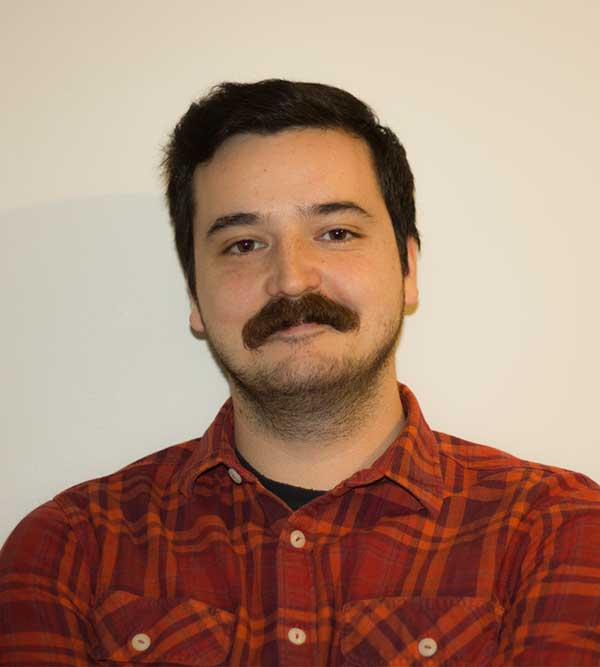
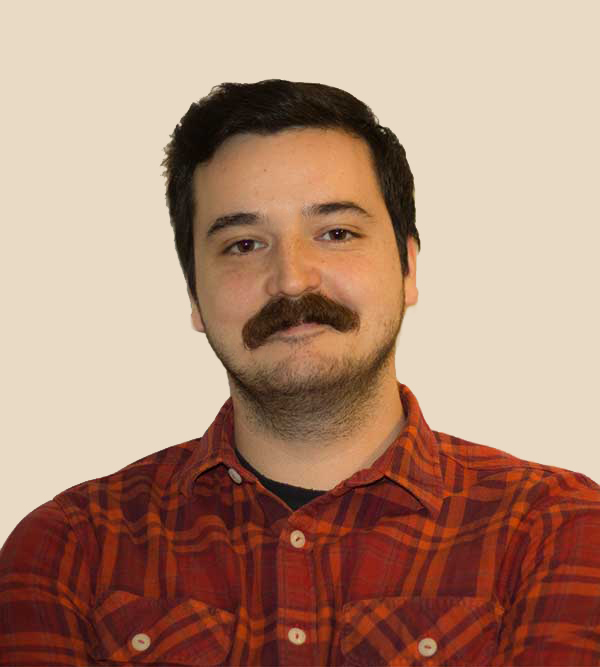
Foto yenilendi, içerik güncellendi

diff --git a/index.html b/index.html
@@ -81,16 +81,17 @@
 				<div class="col-md-4">
 					<ul class="info">
 						<li><span class="first-block">İsim:</span><span class="second-block">Efe Can Uyar</span></li>
-						<li><span class="first-block">Telefon:</span><span class="second-block">xxx</span></li>
+						<li><span class="first-block">Telefon:</span><span class="second-block">+90 506 390 31 85</span></li>
 						<li><span class="first-block">Email:</span><span class="second-block">efecanuyar@gmail.com</span></li>
 						<li><span class="first-block">Website:</span><span class="second-block">www.efecanuyar.com</span></li>
-						<li><span class="first-block">Addres:</span><span class="second-block">xxx</span></li>
+						<li><span class="first-block">Addres:</span><span class="second-block">Karşıyaka/İZMİR</span></li>
 					</ul>
 				</div>
 				<div class="col-md-8">
 					<h2>Merhaba!</h2>
-					<p>There live the blind texts far from the countries Vokalia and Consonantia, there live the blind texts. Separated they live in bookmarksgrove there live the blind texts far from the countries.</p>
-					<p>Far far away, behind the word mountains, Quos quia provident consequuntur culpa facere ratione maxime commodi voluptates id repellat velit eaque aspernatur expedita. Possimus itaque adipisci there live the blind texts from the countries Vokalia and Consonantia, there live the blind texts. Quos quia provident consequuntur culpa facere ratione maxime commodi voluptates id repellat velit eaque aspernatur expedita. Possimus itaque adipisci.</p>
+					<p>2013 yılında yetenek sınavı sonucu eğitim görme hakkı kazandığım 9 Eylül Üniversitesi, Güzel Sanatlar Fakültesi, Film Tasarım Bölümü, Yönetmenlik Anasanat Dalı'ndan 2017 yılında mezun oldum. Eğitimim boyunca aralarında animasyon türünde örnekler de bulunan 9 film yazıp, yönettim. Bu filmlerden "Fiş", "13 Saat" ve "4 Duar" çeşitli festival ve yarışmalarda; gösterim ve/veya ödül almıştır.</p>
+					<p>Eğitimim süresince oldukça hakim olduğum Premiere, After Effects, Photoshop ve Illustrator gibi Adobe programlarının yanısıra, NukeX, Blender 3D gibi programlarda da kendimi geliştirdim ve geliştirmeye devam ediyorum. İlki "Yağmurlarda Yıkansam" uzun metraj filminde pre-production boyunca set amirliği, diğeri de Tiramisu Prodüksiyon'da videographer ve video editor görevlerinde olmak üzere iki staj yaptım.</p>
+					<p>Ekim 2017 tarihinden bu yana freelance olarak video prodüksiyonu, fotoğraf, ürün, menü, ambalaj, grafik tasarımı ve sosyal medya yöneticisi ve web designer görevlerini yerine getiriyorum.</p>
 					<p>
 						<ul class="fh5co-social-icons">
 							<li><a href="https://twitter.com/efecanuyar" target="_blank"><i class="icon-twitter2"></i></a></li>
@@ -115,17 +116,17 @@
 				<div class="col-md-12 col-md-offset-0">
 					<ul class="timeline">
 						<li class="timeline-heading text-center animate-box">
-							<div><h3>experience, projects & awards</h3></div>
+							<div><h3>deneyim, proje ve ödüller</h3></div>
 						</li>
 						<li class="animate-box timeline-unverted">
 							<div class="timeline-badge"><i class="icon-suitcase"></i></div>
 							<div class="timeline-panel">
 								<div class="timeline-heading">
 									<h3 class="timeline-title">The Ball</h3>
-									<span class="company">Claymotion Animation - 2013 - Writer and Director</span>
+									<span class="company">Claymotion Animasyon - 2013 - Yazan ve Yöneten</span>
 								</div>
 								<div class="timeline-body">
-									<p>Far far away, behind the word mountains, far from the countries Vokalia and Consonantia, there live the blind texts.</p>
+									<p>Dokuz Eylül Üniversitesi için, oyun hamurundan hazırlanan karakterlerle ve 12 FPS hazırlanmış, stop motion kısa film.</p>
 								</div>
 							</div>
 						</li>
@@ -134,10 +135,10 @@
 							<div class="timeline-panel">
 								<div class="timeline-heading">
 									<h3 class="timeline-title">LifeScreen</h3>
-									<span class="company">ClayMotion Animation - 2013 - Writer and Director</span>
+									<span class="company">ClayMotion Animasyon - 2013 - Yazan ve Yöneten</span>
 								</div>
 								<div class="timeline-body">
-									<p>Far far away, behind the word mountains, they live in Bookmarksgrove right at the coast of the Semantics, a large language ocean.</p>
+									<p>Dokuz Eylül Üniversitesi için, oyun hamurundan hazırlanan karakterlerle ve fon kartonundan setlerle, 15 FPS hazırlanmış, stop motion kısa film. Film, isimsiz bir karakterin izlediği televizyonun, karakter üzerindeki etkilerini TV'nin açısından incelemektedir.</p>
 								</div>
 							</div>
 						</li>
@@ -146,10 +147,12 @@
 							<div class="timeline-panel">
 								<div class="timeline-heading">
 									<h3 class="timeline-title">Kuşku - Doubt</h3>
-									<span class="company">Short Film - 2014 - Writer and Director</span>
+									<span class="company">Kısa Film - 2014 - Yazan ve Yöneten</span>
 								</div>
 								<div class="timeline-body">
-									<p>Far far away, behind the word mountains, far from the countries Vokalia and Consonantia, there live the blind texts.</p>
+									<p>Kurmaca - Gizem</p>
+									<br></br>
+									<p>"Arcan, Yasemin’in kendisini aldattığına inandığı için ilişkilerini bitirir. Zaman içinde bu bilinmezlik Arcan’ı yener ve son bir yüzleşme için çat kapı Yasemin’in evine gider. Arcan’ın bekleyişi sırasında Yasemin’in evindeki her obje Arcan’ın şüphelerini körükleyen imgeler yaratmaktadır. Yasemin’in söyledikleri Arcan’ın aklına nüfuz ettikçe, Arcan’ın gördüğü imgeler normalleşmeye ve masumlaşmaya başlar. Ancak gerçek ne Arcan'ın düşlediği ne de Yasemin'in anlattığı gibidir."</p>
 								</div>
 							</div>
 						</li>
@@ -157,7 +160,7 @@
 							<div class="timeline-badge"><i class="icon-suitcase"></i></div>
 							<div class="timeline-panel">
 								<div class="timeline-heading">
-									<h3 class="timeline-title">Işık - Light</h3>
+									<h3 class="timeline-title">Dördüncü - The Fourth</h3>
 									<span class="company">Short Film - 2014 - Writer and Director</span>
 								</div>
 								<div class="timeline-body">
@@ -169,7 +172,7 @@
 							<div class="timeline-badge"><i class="icon-suitcase"></i></div>
 							<div class="timeline-panel">
 								<div class="timeline-heading">
-									<h3 class="timeline-title">Dördüncü - The Fourth</h3>
+									<h3 class="timeline-title">Işık - Light</h3>
 									<span class="company">Short Film - 2015 - Writer and Director</span>
 								</div>
 								<div class="timeline-body">
@@ -300,17 +303,17 @@
 						</li>
 						<br>
 						<li class="timeline-heading text-center animate-box">
-							<div><h3>EDUCATION</h3></div>
+							<div><h3>EĞİTİM</h3></div>
 						</li>
 						<li class="timeline-inverted animate-box">
 							<div class="timeline-badge"><i class="icon-graduation-cap"></i></div>
 							<div class="timeline-panel">
 								<div class="timeline-heading">
-									<h3 class="timeline-title">Elementary School</h3>
-									<span class="company">Karşıyaka İlköğretim Okulu - 1998-2006</span>
+									<h3 class="timeline-title">İlkokul</h3>
+									<span class="company">Karşıyaka İlköğretim Okulu</span>
 								</div>
 								<div class="timeline-body">
-									<p>Far far away, behind the word mountains, they live in Bookmarksgrove right at the coast of the Semantics, a large language ocean.</p>
+									<p>1998-2006</p>
 								</div>
 							</div>
 						</li>
@@ -318,11 +321,11 @@
 							<div class="timeline-badge"><i class="icon-graduation-cap"></i></div>
 							<div class="timeline-panel">
 								<div class="timeline-heading">
-									<h3 class="timeline-title">High School</h3>
-									<span class="company">Cihat Kora Anadolu Lisesi - 2006-2010</span>
+									<h3 class="timeline-title">Lise</h3>
+									<span class="company">Cihat Kora Anadolu Lisesi</span>
 								</div>
 								<div class="timeline-body">
-									<p>Far far away, behind the word mountains, far from the countries Vokalia and Consonantia, there live the blind texts.</p>
+									<p>2006-2010</p>
 								</div>
 							</div>
 						</li>
@@ -330,8 +333,8 @@
 							<div class="timeline-badge"><i class="icon-graduation-cap"></i></div>
 							<div class="timeline-panel">
 								<div class="timeline-heading">
-									<h3 class="timeline-title">University</h3>
-									<span class="company">Dokuz Eylül Üniversity - Faculty of Engineering - Geophysical Engineering</span>
+									<h3 class="timeline-title">Üniversite</h3>
+									<span class="company">Dokuz Eylül Üniversitesi - Mühendislik Fakültesi - Jeofizik Mühendisliği</span>
 								</div>
 								<div class="timeline-body">
 									<p>2010-2013</p>
@@ -342,8 +345,8 @@
 							<div class="timeline-badge"><i class="icon-graduation-cap"></i></div>
 							<div class="timeline-panel">
 								<div class="timeline-heading">
-									<h3 class="timeline-title">Bachelor's Degree</h3>
-									<span class="company">Dokuz Eylul University - Faculty of Fine Arts - Film Design and Directing</span>
+									<h3 class="timeline-title">Üniversite</h3>
+									<span class="company">Dokuz Eylul Üniversitesi - Güzel Sanatlar Fakültesi - Film Tasarım Bölümü - Yönetmenlik Anasanat Dalı</span>
 								</div>
 								<div class="timeline-body">
 									<p>2013-2017</p>
@@ -357,7 +360,7 @@
 	</div>
 
 
-	<div id="fh5co-features" class="animate-box">
+	<!-- <div id="fh5co-features" class="animate-box">
 		<div class="container">
 			<div class="services-padding">
 				<div class="row">
@@ -445,18 +448,18 @@
 				</div>
 			</div>
 		</div>
-	</div>
+	</div> -->
 
 	<div id="fh5co-skills" class="animate-box">
 		<div class="container">
 			<div class="row">
 				<div class="col-md-8 col-md-offset-2 text-center fh5co-heading">
-					<h2>Skills</h2>
+					<h2>Yetkinlikler</h2>
 				</div>
 			</div>
 			<div class="row row-pb-md">
 				<div class="col-md-3 col-sm-6 col-xs-12 text-center">
-					<div class="chart" data-percent="50"><span><strong>Adobe Illustrator</strong>70%</span></div>
+					<div class="chart" data-percent="60"><span><strong>Adobe Illustrator</strong>60%</span></div>
 				</div>
 				<div class="col-md-3 col-sm-6 col-xs-12 text-center">
 					<div class="chart" data-percent="85"><span><strong>Adobe Photoshop</strong>85%</span></div>
@@ -485,18 +488,18 @@
 		<div class="container">
 			<div class="row">
 				<div class="col-md-8 col-md-offset-2 text-center fh5co-heading">
-					<h2>Languages</h2>
+					<h2>Diller</h2>
 				</div>
 			</div>
 			<div class="row row-pb-md">
 				<div class="col-md-4 col-sm-4 col-xs-12 text-center">
-					<div class="chart" data-percent="100"><span><strong>Turkish</strong>100%</span></div>
+					<div class="chart" data-percent="100"><span><strong>Türkçe</strong>100%</span></div>
 				</div>
 				<div class="col-md-4 col-sm-4 col-xs-12 text-center">
-					<div class="chart" data-percent="90"><span><strong>English</strong>90%</span></div>
+					<div class="chart" data-percent="90"><span><strong>İngilizce</strong>90%</span></div>
 				</div>
 				<div class="col-md-4 col-sm-4 col-xs-12 text-center">
-					<div class="chart" data-percent="10"><span><strong>German</strong>10%</span></div>
+					<div class="chart" data-percent="10"><span><strong>Almanca</strong>10%</span></div>
 				</div>
 			</div>
 		</div>
@@ -506,7 +509,7 @@
 		<div class="container">
 			<div class="row animate-box">
 				<div class="col-md-8 col-md-offset-2 text-center fh5co-heading">
-					<h2>Work</h2>
+					<h2>Yazıp Yönettiğim Kısa Filmler</h2>
 				</div>
 			</div>
 			<div class="row">
@@ -548,19 +551,19 @@
 				</div>
 				<div class="col-md-4 col-padding">
 					<div class="embed-responsive embed-responsive-16by9">
-						<iframe title="test7" src="https://www.youtube.com/embed/Kr4n_aNanbs"
+						<iframe title="test7" src="https://www.youtube.com/embed/HruvmWTu2kw"
 							class="embed-responsive-item" frameborder="0" allowfullscreen></iframe>
 					</div>
 				</div>
 				<div class="col-md-4 col-padding">
 					<div class="embed-responsive embed-responsive-16by9">
-						<iframe title="tes8" src="https://www.youtube.com/embed/Kr4n_aNanbs"
+						<iframe title="tes8" src="https://www.youtube.com/embed/V_BsLOeEWwI"
 							class="embed-responsive-item" frameborder="0" allowfullscreen></iframe>
 					</div>
 				</div>
 				<div class="col-md-4 col-padding">
 					<div class="embed-responsive embed-responsive-16by9">
-						<iframe title="tes9" src="https://www.youtube.com/embed/Kr4n_aNanbs"
+						<iframe title="tes9" src="https://www.youtube.com/embed/SgrVYFK-i7s"
 							class="embed-responsive-item" frameborder="0" allowfullscreen></iframe>
 					</div>
 				</div>

diff --git a/sass/style.scss b/sass/style.scss
@@ -4,7 +4,7 @@ $font-secondary: 'Kaushan Script', cursive;
 
 
 // Overrides
-$grid-gutter-width: 40px !default; 
+$grid-gutter-width: 40px !default;
 $border-radius-base:  4px !default;
 $padding-base-vertical: 14px !default;
 
@@ -56,16 +56,16 @@ $form-group-margin-bottom:       30px !default;
           border-radius: $radius;
 }
 @mixin flex() {
-	display: -webkit-box;      
-  	display: -moz-box;         
-  	display: -ms-flexbox;      
-  	display: -webkit-flex;     
-  	display: flex;             
+	display: -webkit-box;
+  	display: -moz-box;
+  	display: -ms-flexbox;
+  	display: -webkit-flex;
+  	display: flex;
 }
 @mixin flexwrap() {
 	flex-wrap: wrap;
-	-webkit-flex-wrap: wrap; 
-	-moz-flex-wrap: wrap; 
+	-webkit-flex-wrap: wrap;
+	-moz-flex-wrap: wrap;
 }
 
 @font-face {
@@ -80,7 +80,7 @@ $form-group-margin-bottom:       30px !default;
 }
 
 @mixin icomoon() {
-	
+
 	font-family: 'icomoon';
 	speak: none;
 	font-style: normal;
@@ -92,10 +92,10 @@ $form-group-margin-bottom:       30px !default;
 	/* Better Font Rendering =========== */
 	-webkit-font-smoothing: antialiased;
 	-moz-osx-font-smoothing: grayscale;
-	
+
 }
 
-// Import 
+// Import
 @import 'bootstrap/mixins';
 @import 'bootstrap/variables';
 
@@ -104,7 +104,7 @@ $form-group-margin-bottom:       30px !default;
 
 /* =======================================================
 *
-* 	Template Style 
+* 	Template Style
 *
 * ======================================================= */
 
@@ -123,9 +123,9 @@ body {
 	height: 100%;
 	@include transition(.5s);
 	.offcanvas & {
-		overflow: hidden;	
+		overflow: hidden;
 		position: absolute;
-		
+
 		&:after {
 			@include transition(2s);
 			position: absolute;
@@ -529,7 +529,7 @@ h1, h2, h3, h4, h5, h6, figure {
 		margin-bottom: 20px;
 		position: relative;
 		@media screen and (max-width: $screen-sm) {
-			margin-bottom: 4em;	
+			margin-bottom: 4em;
 		}
 		&:before, &:after{
 			content: " ";
@@ -755,7 +755,7 @@ h1, h2, h3, h4, h5, h6, figure {
 	}
 	@media screen and(max-width: $screen-xs){
 		height: 270px;
-	}	
+	}
 	.desc{
 		display: table-cell;
 		vertical-align: middle;
@@ -1015,7 +1015,7 @@ h1, h2, h3, h4, h5, h6, figure {
 		a{
 			color: $brand-black;
 		}
-		
+
 	}
 }
 .form-control {
@@ -1027,10 +1027,10 @@ h1, h2, h3, h4, h5, h6, figure {
 	border: none;
 	border: 2px solid rgba(0,0,0,.1);
 	font-size: 18px;
-	
+
 	font-weight: 300;
 	@include border-radius(4px);
-	
+
 	&:focus, &:active {
 		box-shadow: none;
 		border: 2px solid rgba(0,0,0,.8);
@@ -1085,7 +1085,7 @@ input[type="text"] {
 			text-decoration: none;
 			outline: none;
 		}
-	}	
+	}
 }
 
 
